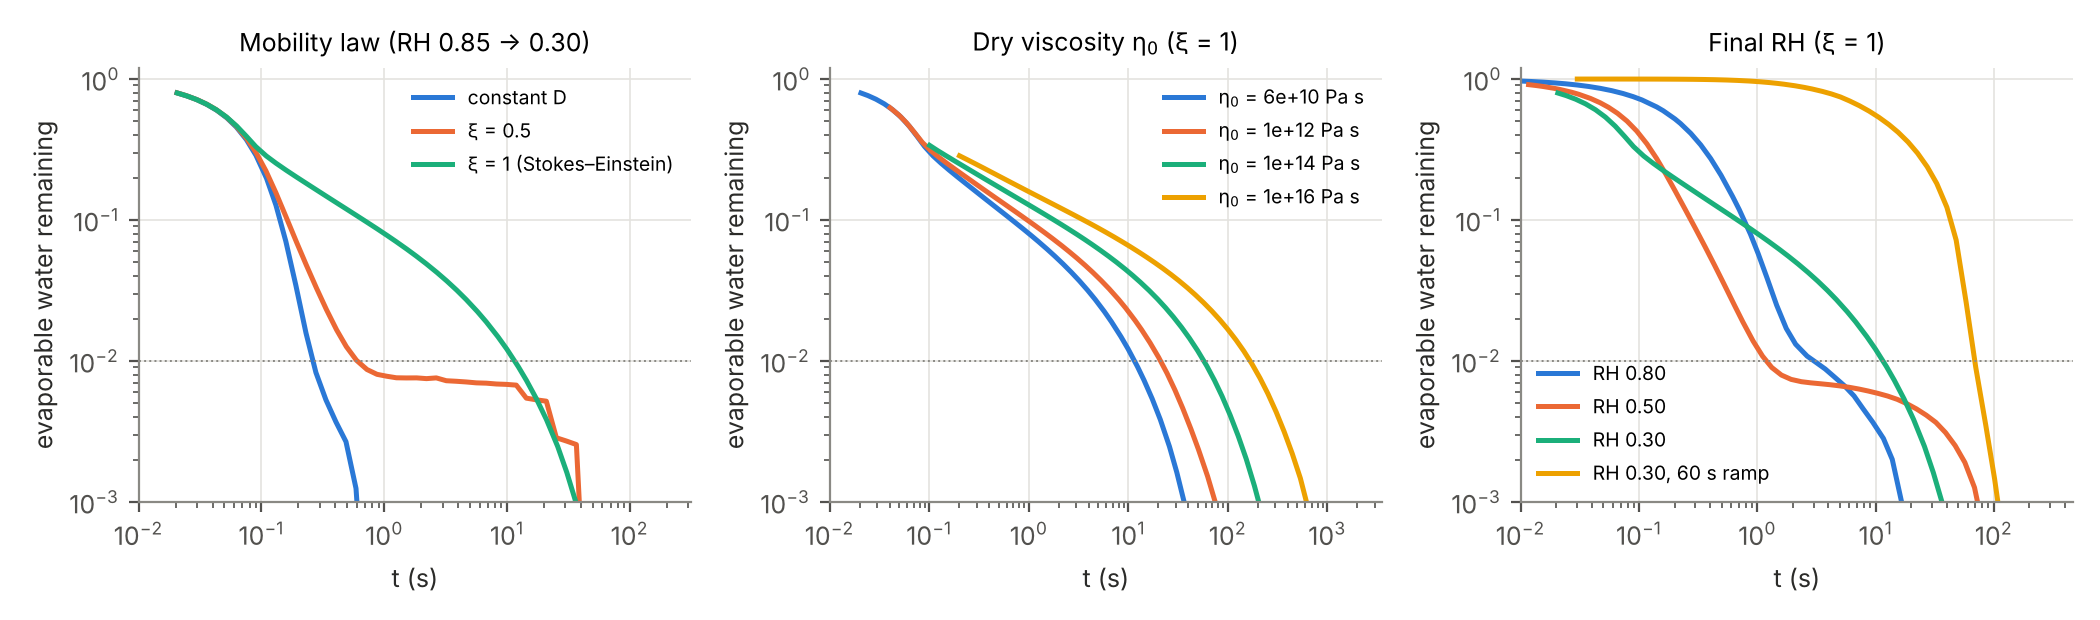
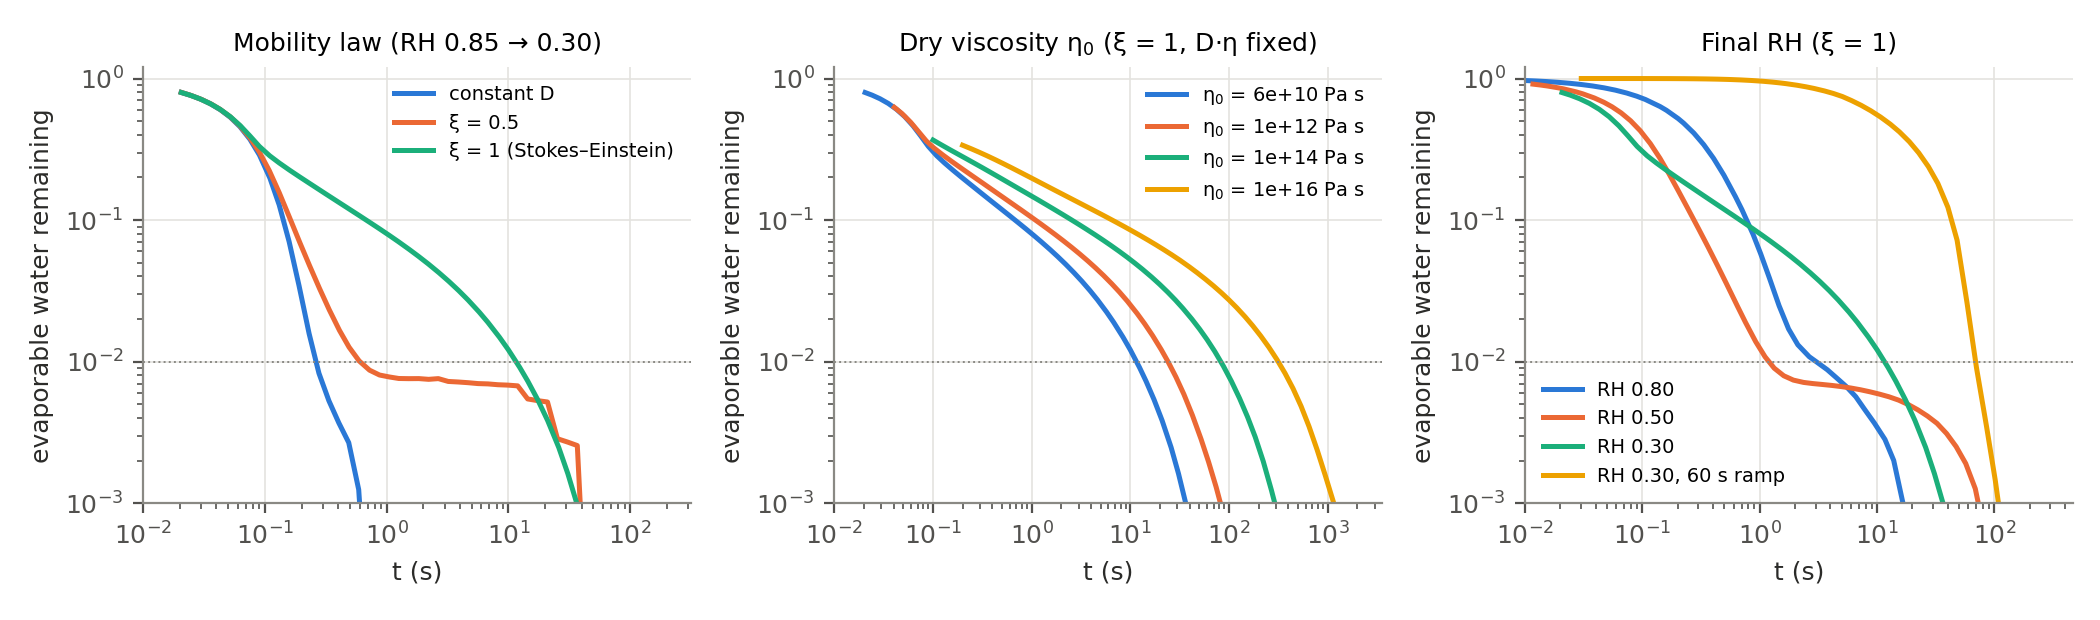
Adopt D*eta fixed (eta_ref 0.0086 Pa s) as the mobility convention
fig2 (eta0 panel), fig4 and fig5 now use the *_er runs; HANDOFF and README record the
convention and the flag for new eta_idx > 0 runs.

diff --git a/analyze.py b/analyze.py
@@ -245,8 +245,9 @@ def panel_aw(ax, tags, labels, title):
 fig, ax = plt.subplots(1, 3, figsize=(10.5, 3.1))
 panel_aw(ax[0], ["soa_rh0.30_xi0", "soa_rh0.30_xi0.5_e0", "soa_rh0.30_xi1_e0"],
          ["constant D", "ξ = 0.5", "ξ = 1 (Stokes–Einstein)"], "Mobility law (RH 0.85 → 0.30)")
-panel_aw(ax[1], ["soa_rh0.30_xi1_e0", "soa_rh0.30_xi1_e1", "soa_rh0.30_xi1_e2", "soa_rh0.30_xi1_e3"],
-         [f"η$_0$ = {e:.0e} Pa s" for e in ETA0], "Dry viscosity η$_0$ (ξ = 1)")
+# eta0 runs: D*eta fixed (eta_ref 0.0086 Pa s, the *_er runs) is the convention; the own-eta_ref runs are in fig6
+panel_aw(ax[1], ["soa_rh0.30_xi1_e0", "soa_rh0.30_xi1_e1_er", "soa_rh0.30_xi1_e2_er", "soa_rh0.30_xi1_e3_er"],
+         [f"η$_0$ = {e:.0e} Pa s" for e in ETA0], "Dry viscosity η$_0$ (ξ = 1, D·η fixed)")
 panel_aw(ax[2], ["soa_rh0.80_xi1_e0", "soa_rh0.50_xi1_e0", "soa_rh0.30_xi1_e0", "soa_rh0.30_xi1_e0_ramp60"],
          ["RH 0.80", "RH 0.50", "RH 0.30", "RH 0.30, 60 s ramp"], "Final RH (ξ = 1)")
 for a_ in ax:
@@ -293,7 +294,7 @@ def profiles(tag, fname, times=(0.05, 0.2, 1, 5, 20, None)):
 
 
 profiles("soa_rh0.30_xi1_e0", "fig3_profiles_rh030_xi1_e0.png")
-profiles("soa_rh0.30_xi1_e3", "fig4_profiles_rh030_xi1_e3.png", times=(0.05, 0.3, 3, 30, 300, None))
+profiles("soa_rh0.30_xi1_e3_er", "fig4_profiles_rh030_xi1_e3.png", times=(0.05, 0.3, 3, 30, 300, None))
 profiles("soa_rh0.30_xi0", "figS_profiles_rh030_xi0.png")
 profiles("soa_rh0.30_xi1_e0_wet0", "figS_profiles_rh030_wet0.png")
 profiles("soa_rh0.30_xi1_e0_ramp60", "figS_profiles_rh030_ramp60.png", times=(1, 10, 30, 60, 100, None))
@@ -302,7 +303,7 @@ profiles("soa_rh0.80_xi1_e0", "figS_profiles_rh080.png", times=(0.05, 0.2, 0.5, 
 # space-time map of w_MBTCA for the baseline and the high-eta0 case
 fig, ax = plt.subplots(1, 2, figsize=(9, 3.2), sharey=True)
 pc = None
-for a_, tag in zip(ax, ["soa_rh0.30_xi1_e0", "soa_rh0.30_xi1_e3"]):
+for a_, tag in zip(ax, ["soa_rh0.30_xi1_e0", "soa_rh0.30_xi1_e3_er"]):
     if tag not in soa:
         continue
     h, z, m, a = soa[tag]

diff --git a/HANDOFF.md b/HANDOFF.md
@@ -40,7 +40,9 @@ Typical SOA run: `python3 sph1d.py --system results/MBTCA --rh_ref 0.75 --rh0 0.
 6. Viscosity: AIOMFAC-VISC, x_org-weighted aquorg/aquelec (as paper6). The organic phase holds AS (w 0.22-0.29), so
    it is only 10^3.5-10^5.6 Pa s at RH 0.2: semi-solid skin, not glass. Dry eta0 = 6e10 (D2018 Tg 286 K), 1e12,
    1e14, 1e16 as an oligomer sensitivity. Mobility L_i ~ D_ref (eta_ref/eta)^xi, eta_ref 0.0086 Pa s, D_ref 1e-10.
-7. Metric: remaining evaporable water f_w = (R^3 - Rinf^3)/(1 - Rinf^3), Rinf = each run's own final radius.
+7. Mobility normalisation (session 2): D = D_ref at eta_ref = 0.0086 Pa s for every eta0 (D*eta fixed, Stokes-Einstein);
+   the first eta0 runs normalised at each run's own initial viscosity (up to 1.9x larger D).
+8. Metric: remaining evaporable water f_w = (R^3 - Rinf^3)/(1 - Rinf^3), Rinf = each run's own final radius.
    Layered xi = 1 runs hold ~0.7 % more water than the constant-D run in their diffuse interfaces (artefact).
 
 ## Results
@@ -48,14 +50,14 @@ Typical SOA run: `python3 sph1d.py --system results/MBTCA --rh_ref 0.75 --rh0 0.
 | --- | --- | --- | --- |
 | 0.30 constant D | 0.14 | 0.26 | 2 |
 | 0.30 xi 0.5 | 0.16 | 0.60 | 2 |
-| 0.30 xi 1, eta0 6e10 / 1e12 / 1e14 / 1e16 | 0.68 / 0.97 / 1.8 / 3.6 | 11.6 / 21.1 / 57.5 / 168 | 7 |
+| 0.30 xi 1, eta0 6e10 / 1e12 / 1e14 / 1e16 (D*eta fixed, `*_er`) | 0.68 / 1.1 / 2.6 / 6.6 | 11.6 / 24.1 / 82.6 / 315 | 7 |
 | 0.30 xi 1, H = 0 | 0.71 | 12.4 | 6 |
 | 0.30 xi 1, 60 s ramp | 43 | 69 | 2 |
 | 0.50 / 0.80, xi 1 | 0.28 / 0.77 | 1.2 / 3.0 | 3 / 2 |
-(t90/t99 log-interpolated between snapshots; the first draft of the doc used the first snapshot past the level,
-`*_snap_s` in summary.csv: 12.4 / 24.5 / 61.5 / 175, H = 0 14.5. The 1 % level is close to the model floor: xi = 1 runs
-end 0.6-0.8 % above the constant-D radius, the ramp 0.2 % below; `t_mean_s` (mean a_w within 0.01 of RH: 31 / 51 / 154 /
-445 s) gives the same eta0 ratio.)
+(t90/t99 log-interpolated between snapshots; the first draft of the doc used the first snapshot past the level and the
+own-eta_ref eta0 runs: 12.4 / 24.5 / 61.5 / 175, H = 0 14.5. The 1 % level is close to the model floor: xi = 1 runs
+end 0.6-0.8 % above the constant-D radius, the ramp 0.2 % below; `t_mean_s` (mean a_w within 0.01 of RH: 31 / 62 / 222 /
+944 s) gives the same eta0 ratio.)
 - Late decay time tau = 0.36-0.42 L^2/D_shell with D_shell from the harmonic (series) mean of the mobility factor over the
   outer MBTCA-rich shell (L 0.55-0.7 um; fine mesh 0.48); the doc's 0.8-1.1 came from a geometric mean. `figures/scaling.csv`.
 - Surface a_w within 0.02 of RH by 0.36 s in all step runs (within 0.01 only by 0.62 s); surface w_MBTCA reaches 0.71 at
@@ -85,8 +87,10 @@ end 0.6-0.8 % above the constant-D radius, the ramp 0.2 % below; `t_mean_s` (mea
 
 ## Next steps (open)
 - [x] kappa_P x0.5, x2 sensitivity of L and t99 (interface width) — session 2
-- [ ] adopt fixed D*eta (eta_ref 0.0086) for the paper: only the eta0 runs e1-e3 change (`*_er`); all eta_idx 0 runs
-  (wet0, ramp, RH 0.5/0.8, xi 0.5, fine) already have eta_ref 0.0086
+- [x] eta_ref convention: D*eta fixed (eta_ref 0.0086 Pa s) adopted 2026-10-20. Use `--eta_ref 0.008603994797084933`
+  for any new run with eta_idx > 0. Only the eta0 runs change (`*_er`); all eta_idx 0 runs already have it.
+  The own-eta_ref runs (soa_rh0.30_xi1_e1..3, and the kappa runs e3_fine*) are kept for comparison (fig6); kappa
+  comparisons at eta0 1e16 are relative, so they stand.
 - [ ] layer count: needs a physical interface width (kappa from sigma ~ mN/m) or report only the coarse structure
 - [ ] three-mobility (Maxwell-Stefan-like) model with a separate water mobility (largest uncertainty: xi)
 - [ ] DTAA, terpenylic acid proxies (O:C dependence)

diff --git a/README.md b/README.md
@@ -18,7 +18,7 @@ Results are summarised in the doc "후속 연구 1 예비 결과". This folder h
 - Run lists (each skips runs whose `_meta.json` exists): `run_soa.sh` all MBTCA runs (`q1.sh` + `q2.sh` split them over
   two cores), `run_peg3d.sh` PEG 3D/2D and H = 0 runs, `run_validation.sh` planar sigma_num and 2D disc checks against
   dolfinx (these use `--implicit 0`, the explicit Rdot of m3g, as when they were run), `run_kappa.sh` interface-width
-  sensitivity (kappa x0.5, x2, seed 2; fine mesh), `run_etaref.sh` eta0 runs with D*eta fixed (`--eta_ref`).
+  sensitivity (kappa x0.5, x2, seed 2; fine mesh), `run_etaref.sh` eta0 runs with D*eta fixed (`--eta_ref`): the adopted convention, used in fig2/4/5.
 - `analyze.py` — figures, `figures/summary.csv` (+ `summary.txt`) and `figures/scaling.csv`.
   t90/t99 are log-interpolated between snapshots (`*_snap_s`: first snapshot at or below the level, as in the first
   draft, up to ~17 % high). PEG rows: onset time, previous snapshot time (= resolution), mean a_w and X at onset,
